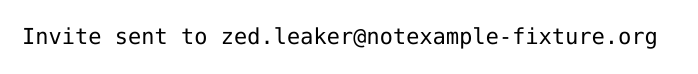
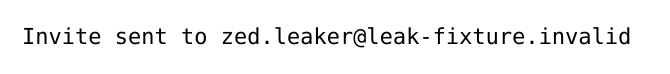
Use a reserved .invalid domain for must-fail fixtures; add README_ko
- Must-fail email fixtures now use leak-fixture.invalid instead of a
  registrable domain. .invalid is no longer an allowed email TLD, so it is
  reserved for fixtures; a new control proves such an address is caught.
- README_ko.md: Korean translation of the README, linked both ways.

Changed region(s): [[0.0299, 0.3514, 0.9552, 0.6757]]

diff --git a/fixtures/roster_check.py b/fixtures/roster_check.py
@@ -14,7 +14,7 @@ Rules (each failure prints one line "RULE <detail>" and never prints denylist en
   ROLE           role in --allowed-roles, when given
   UNIQUE         person id, handle and email unique; account_id unique across the roster
   EMAIL_DOMAIN   every email and login_email on a reserved domain
-                 (example.com/.org/.net or a subdomain, or a .test/.example/.invalid/.localhost TLD)
+                 (example.com/.org/.net or a subdomain, or a .test/.example/.localhost TLD; .invalid is kept for must-fail fixtures)
   ACCOUNT_UUID   account_id is a lowercase UUID
   PER_PROVIDER   if a person holds external accounts (optional accounts[]), uniqueness holds
                  per provider: at most one account per person per provider, and per provider
@@ -38,7 +38,7 @@ from collections import defaultdict
 from pathlib import Path
 
 RESERVED_DOMAINS = ("example.com", "example.org", "example.net")
-RESERVED_TLDS = ("test", "example", "invalid", "localhost")
+RESERVED_TLDS = ("test", "example", "localhost")
 UUID_RE = re.compile(r"^[0-9a-f]{8}-[0-9a-f]{4}-[0-9a-f]{4}-[0-9a-f]{4}-[0-9a-f]{12}$")
 ID_RE = re.compile(r"^[a-z][a-z0-9-]*$")
 HANDLE_RE = re.compile(r"^[a-z][a-z0-9_.-]*$")

diff --git a/README_ko.md b/README_ko.md
@@ -1,0 +1,124 @@
+# journey-qa
+
+[English](README.md) | 한국어
+
+페르소나 여정 인수 검사(acceptance QA)를 하는 에이전트 스킬이다. 격리된 깨끗한 환경과 가상의 팀에서 시작해 제품의 여정을 처음부터 걷는다(예: 설치와 첫 권한 사용자, 새 사용자 온보딩, 운영 중인 팀). 그 결과로 문서·제품·UX 결함, 공개해도 되는 증거, 문서용 스크린샷을 남긴다.
+
+스킬 진입점은 `SKILL.md`이다. 개념은 `docs/concepts.md`, 절차는 `docs/workflow.md`에 있다.
+
+## 구조
+
+```
+SKILL.md                    진입점: 모드 선택, 0단계 점검표, 게이트 명령, 사람 관문
+docs/
+  concepts.md               페르소나, 여정, 환경, 모드, 게이트, 누출 방어, 사람 관문
+  workflow.md               0~7단계, 계획 -> 실행 -> 게이트 -> 수리 반복, 오케스트레이션 규칙, codify/run
+  prod-access.md            운영 데이터 읽기 규칙
+  engines.md                어디서 어떤 실행 엔진을 쓰는가(기본값 `--engine auto`), 로그인 상태 저장·주입·교환·만료
+  decisions/                결정 기록(선택의 근거가 된 측정)
+  rationale.md              규칙마다 막으려는 일반적 실패와 강제되는 위치
+scenarios/
+  schema.json               시나리오 형식
+  validate.py               스키마와 교차 참조 검증(uv run, PyYAML은 인라인 의존성)
+  example/onboarding.yaml   제품 무관 예시
+  selftest/                 검증기 대조군
+runners/
+  README.md                 run 모드: 인터프리터, 백엔드, 훅, 실패 증거, 기준 이미지
+  run.sh                    진입점(검증, 변환, 실행, 기준 이미지 비교)
+  run-engine.mjs  lib/      엔진 무관 인터프리터와 페이지 내 함수
+  ego/  playwright/         엔진 백엔드
+  selftest/                 가상 데모 앱으로 하는 스모크 테스트
+gates/
+  SPEC.md                   게이트 규격(종료 코드, 규칙, 예외, 자체 검사)
+  LIMITS.md                 측정한 한계
+  leakscan.py               텍스트와 덤프의 누출
+  image_scan.py             이미지 누출(형제 innerText + OCR)
+  png_meta.py               PNG 이름과 청크
+  docs_images.py            문서-이미지 대응, 로캘 쌍
+  img_diff.py               엔진별 기준 이미지와의 마스크 픽셀 비교
+  sql_assert.py             DB 신원 단언(sqlite, psql)
+  manifest.py               게이트 고정과 검증
+  policy.default.json       기본 정책
+  selftest/                 대조군, --sabotage
+capture/
+  SPEC.md                   촬영 규격
+  strip_png.py              청크 허용 목록으로 메타데이터 제거
+  redact.py                 기록 가림
+  evidence.py               실패 증거를 가리고 검사, 통과하지 못하면 삭제
+  render_terminal.py        가린 기록을 터미널 이미지로 렌더
+fixtures/
+  README.md                 합성 데이터 순서와 생성기 인터페이스
+  roster.schema.json        명부 형식
+  roster.example.json       가상 인물 5명
+  roster_check.py           명부 검증기(+ selftest/)
+  reference-shape.template.md  운영 참조의 형태를 서술하는 양식
+  realism-checklist.md      판정자 점검표
+adapters/
+  README.md                 어댑터 계약
+  <product>/                함께 배포되는 예시 어댑터. 자기 어댑터는 대상 프로젝트에 둔다:
+                            <project>/.journey-qa/adapters/<product>/ (또는 --adapter로 임의 경로)
+check.sh                    레포의 모든 검사(JQA_ADAPTER_DIRS로 다른 곳의 어댑터 추가)
+templates/
+  report.md  issue-draft.md  decision-log.md  gate-verdict.schema.json  prod-query.sql
+  examples/workflow-phase.js
+```
+
+## 검사 실행
+
+```
+./check.sh                                           # 아래 전부. 종료 코드 0이면 통과
+JQA_DENYLIST=<레포 밖의 실제 금지 목록> ./check.sh     # 레포를 실제 식별자로도 검사
+JQA_ADAPTER_DIRS=<dir>[:<dir>...] ./check.sh         # 레포 밖에 둔 어댑터도 검사
+```
+
+`check.sh`가 돌리는 것:
+
+- 게이트 자체 검사(코어와 모든 어댑터 컨텍스트)와 `--sabotage`
+- 매니페스트 검증(gates, capture, runners, 모든 어댑터)
+- 어댑터 위치 결정 자체 검사(레포 밖에 복사한 어댑터 포함)
+- 시나리오 검증기 대조군, 명부 검증기 대조군
+- 엔진 선택 자체 검사, 러너 모듈 전체 문법 검사
+- 레포 자체 누출 검사
+
+자체 검사에 걸린 것 중 문장이 패턴을 설명하기 때문에 생긴 것만 그 어댑터의 `self-scan.accepted`에 이유와 함께 적는다. `check.sh`는 검사하는 어댑터마다 이 파일을 읽는다. 목록에 있는데 더 이상 아무것에도 맞지 않는 항목도 실패로 친다.
+
+필요한 것:
+
+- Python 3.10 이상
+- `tesseract`(이미지 OCR)
+- `rsvg-convert`(터미널 이미지와 OCR 픽스처 재생성)
+- `uv`(YAML 시나리오 검증)
+- "DejaVu Sans Mono" 글꼴(터미널 렌더링, 글자 폭이 이 글꼴 기준)
+- Node.js 18 이상(러너)
+- `psql`(psql 엔진을 쓸 때만)
+
+시나리오를 실행하려면 엔진 백엔드도 하나 이상 있어야 한다. `ego-browser`(실제 사용자 프로필, 화면 있는 촬영)나 Playwright 설치(격리, 헤드리스 또는 화면 있음, 병렬 실행 가능) 중 하나다. 기본값 `--engine auto`는 쓸 수 있는 엔진을 감지하고 실행 위치에 맞춰 고른다(`docs/engines.md`).
+
+## 코어와 어댑터
+
+코어(`adapters/` 밖의 전부)는 어떤 제품도 모른다. 제품마다 다른 것은 모두 어댑터에 넣는다.
+
+| 코어가 제공 | 어댑터가 제공 |
+|---|---|
+| 텍스트·이미지·메타데이터·문서-이미지 게이트. 모든 규칙, 파일 분류, 정규화, 경로 검사, 정책 기반 예외 | `policy.json`: 추가 규칙, 비밀 키 이름, 예외(각각 통과·실패 대조군 포함), 가림 규칙 |
+| SQL 단언 실행기와 명부 CTE, 제공자별 1:1:1 예시 | 제품 테이블에 대한 `sql/identity.sql` 단언 |
+| 촬영 규격, 터미널 렌더링, 가림, 메타데이터 제거 | 제품 고유의 가림 규칙 |
+| 합성 데이터 순서, 생성기 인터페이스 계약, 현실감 점검표, 참조 형태 양식 | 제품 차트·표의 데이터 계약, 필요하면 생성기 |
+| 단계, 게이트 종류, 반복 구조, 워크플로 골격, 결정 기록 형식 | 환경 구성, 제품 사실, 이전 실행의 결함 |
+| 명부 형식, 검증기, 예시 | 저장 형태 값(역할, 요금제, 제공자)과 `privileged_roles` |
+| 시나리오 형식과 검증기 | 여정 시나리오 |
+| run 모드 러너, 엔진 백엔드, 마스크, 기준 이미지 비교, 실패 증거 검사 | 선택자 맵, 러너 훅(준비, 제품 검사, 정리), 제품 토큰과 호스트 관련 사실 |
+
+어댑터 파일 구성, 어댑터를 찾는 위치(명시한 경로, 대상 프로젝트, 함께 배포되는 예시 순), 작성 절차는 `adapters/README.md`에 있다. `adapters/example-app/`은 가상 제품으로 만든 예시 어댑터다.
+
+## 앞으로 할 일
+
+아직 없는 것:
+
+- run 모드의 터미널 단계. 러너는 브라우저를 다루고, 터미널 여정은 pty 드라이버가 더 필요하다.
+- codify 자동화. 지금은 에이전트가 explore 기록을 읽고 시나리오를 직접 쓴다.
+- 제품별 합성 데이터 생성기. 코어에는 인터페이스 계약만 있다.
+
+## 라이선스
+
+MIT. `LICENSE` 참고.

diff --git a/README.md b/README.md
@@ -1,5 +1,7 @@
 # journey-qa
 
+English | [한국어](README_ko.md)
+
 An agent skill for persona-journey acceptance QA. It starts from an isolated clean environment and a fictitious team, walks a product's journeys from the beginning (for example install and first privileged user, onboarding a new user, a team in operation), and leaves documentation, product and UX defects, evidence that is safe to publish, and docs screenshots.
 
 The skill entry point is `SKILL.md`. Concepts are in `docs/concepts.md`, the procedure in `docs/workflow.md`.

diff --git a/gates/SPEC.md b/gates/SPEC.md
@@ -35,7 +35,7 @@ One entry per line. Blank lines and lines starting with `#` are ignored. Entries
 ```json
 {
   "allowed_email_domains": ["example.com", "example.org", "example.net"],
-  "allowed_email_tlds": ["test", "example", "invalid", "localhost"],
+  "allowed_email_tlds": ["test", "example", "localhost"],
   "allowed_ipv4": ["127.0.0.1", "0.0.0.0"],
   "allowed_ipv4_cidrs": ["192.0.2.0/24", "198.51.100.0/24", "203.0.113.0/24"],
   "allowed_home_users": [],
